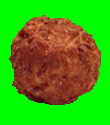
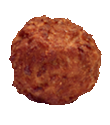
Fix transparency

diff --git a/classes/Hitbox.py b/classes/Hitbox.py
@@ -18,7 +18,7 @@ class Hitbox(pygame.sprite.Sprite):
         self.lane_index = lane_index
 
         # Setup the required Sprite attributes (image and rect)
-        self.image, self.rect = load_image(image_name, (0, 255, 0))
+        self.image, self.rect = load_image(image_name)
         self.image = pygame.transform.scale(self.image, (110, 125))
         self.rect = self.image.get_rect()
         self.rect.bottomleft = ((420 + 110 * self.lane_index), 720)

diff --git a/classes/FallingNote.py b/classes/FallingNote.py
@@ -11,7 +11,7 @@ class FallingNote(pygame.sprite.Sprite):
         self.note = note
         
         self.lane_index = lane_i
-        self.image, self.rect = load_image("meatball-hitbox.png", (0, 255, 0))
+        self.image, self.rect = load_image("meatball-hitbox.png")
         screen = pygame.display.get_surface()
         self.area = screen.get_rect()  # ONLY USE THIS TO CHECK IT HAS FALLEN OF SCREEN
         self.rect.topleft = self._new_start_pos()

diff --git a/utils.py b/utils.py
@@ -10,7 +10,7 @@ def load_image(name, colorkey=None):
     except pygame.error:
         print("Cannot load image:", fullname)
         raise SystemExit(str(geterror()))
-    image = image.convert()
+    image = image.convert_alpha()
     if colorkey is not None:
         if colorkey == -1:
             colorkey = image.get_at((0, 0))

diff --git a/classes/GameState.py b/classes/GameState.py
@@ -1,5 +1,4 @@
 from utils import load_sound, load_font
-from classes.GpioButton import GpioButton
 from classes.Hitbox import Hitbox
 from classes.ScoreHandler import ScoreHandler
 from classes.BackgroundHandler import BackgroundHandler
